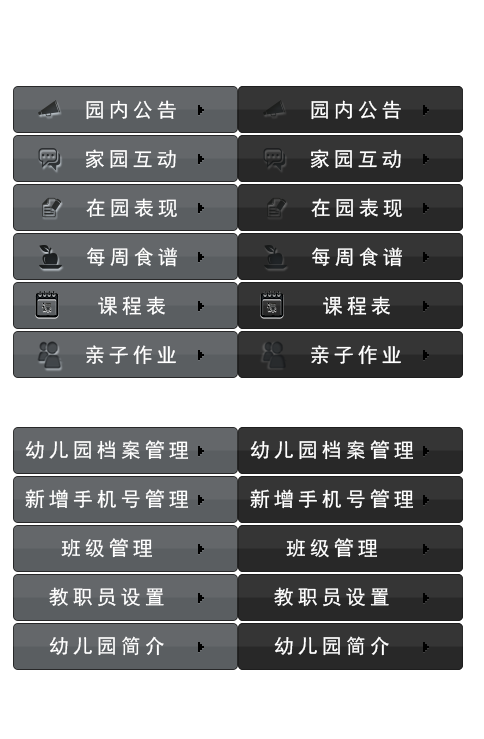
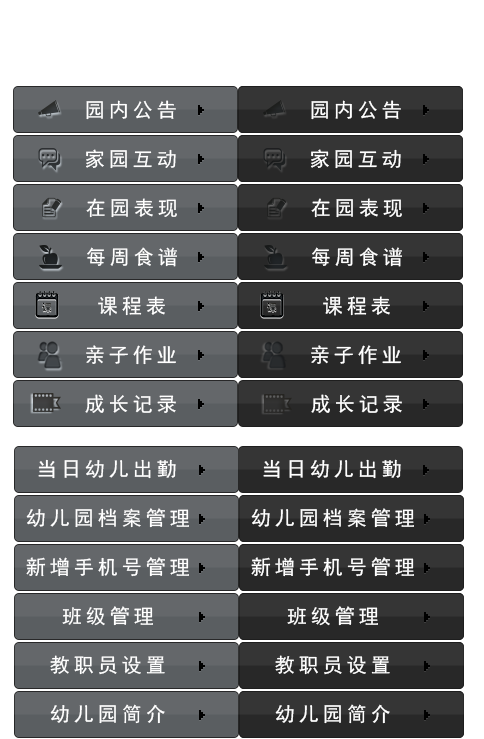
add buttons background, reveal it to teachers

Changed region(s): [[0.0, 0.498, 0.9607, 1.0]]

diff --git a/app/assets/stylesheets/left-panel-buttons.css b/app/assets/stylesheets/left-panel-buttons.css
@@ -30,12 +30,6 @@
       }
 
       .btn {
-        &.history,
-        &.dailylog {
-          span {
-            display: inline;
-          }
-        }
         span {
           display: none;
         }
@@ -80,43 +74,55 @@
           .hoverBkImage(-334);
         }
       }
-
-      .placeholder {
-        .bkImage(-380);
+      .history {
+        .bkImage(-382);
+        &:hover {
+          .hoverBkImage(-382);
+        }
       }
 
-      .relationship {
-        .bkImage(-428);
+      .placeholder {
+        .bkImage(0);
+      }
+
+      .dailylog {
+        .bkImage(-447);
         &:hover {
-          .hoverBkImage(-428);
+          .hoverBkImage(-447);
+        }
+      }
+      .relationship {
+        .bkImage(-496);
+        &:hover {
+          .hoverBkImage(-496);
         }
       }
 
       .member {
-        .bkImage(-478);
+        .bkImage(-545);
         &:hover {
-          .hoverBkImage(-478);
+          .hoverBkImage(-545);
         }
       }
 
       .classes {
-        .bkImage(-527);
+        .bkImage(-594);
         &:hover {
-          .hoverBkImage(-527);
+          .hoverBkImage(-594);
         }
       }
 
       .employee {
-        .bkImage(-576);
+        .bkImage(-643);
         &:hover {
-          .hoverBkImage(-576);
+          .hoverBkImage(-643);
         }
       }
 
       .intro {
-        .bkImage(-626);
+        .bkImage(-692);
         &:hover {
-          .hoverBkImage(-626);
+          .hoverBkImage(-692);
         }
       }
     }
@@ -138,20 +144,27 @@
     .active .assignment {
       .hoverBkImage(-334);
     }
+    .active .history {
+      .hoverBkImage(-382);
+    }
+
+    .active .dailylog {
+      .hoverBkImage(-447);
+    }
     .active .relationship {
-      .hoverBkImage(-428);
+      .hoverBkImage(-496);
     }
     .active .member {
-      .hoverBkImage(-478);
+      .hoverBkImage(-545);
     }
     .active .classes {
-      .hoverBkImage(-527);
+      .hoverBkImage(-594);
     }
     .active .employee {
-      .hoverBkImage(-576);
+      .hoverBkImage(-643);
     }
     .active .intro {
-      .hoverBkImage(-626);
+      .hoverBkImage(-692);
     }
   }
 

diff --git a/app/assets/stylesheets/left-panel-buttons.less b/app/assets/stylesheets/left-panel-buttons.less
@@ -30,12 +30,6 @@
       }
 
       .btn {
-        &.history,
-        &.dailylog {
-          span {
-            display: inline;
-          }
-        }
         span {
           display: none;
         }
@@ -80,43 +74,55 @@
           .hoverBkImage(-334);
         }
       }
-
-      .placeholder {
-        .bkImage(-380);
+      .history {
+        .bkImage(-382);
+        &:hover {
+          .hoverBkImage(-382);
+        }
       }
 
-      .relationship {
-        .bkImage(-428);
+      .placeholder {
+        .bkImage(0);
+      }
+
+      .dailylog {
+        .bkImage(-447);
         &:hover {
-          .hoverBkImage(-428);
+          .hoverBkImage(-447);
+        }
+      }
+      .relationship {
+        .bkImage(-496);
+        &:hover {
+          .hoverBkImage(-496);
         }
       }
 
       .member {
-        .bkImage(-478);
+        .bkImage(-545);
         &:hover {
-          .hoverBkImage(-478);
+          .hoverBkImage(-545);
         }
       }
 
       .classes {
-        .bkImage(-527);
+        .bkImage(-594);
         &:hover {
-          .hoverBkImage(-527);
+          .hoverBkImage(-594);
         }
       }
 
       .employee {
-        .bkImage(-576);
+        .bkImage(-643);
         &:hover {
-          .hoverBkImage(-576);
+          .hoverBkImage(-643);
         }
       }
 
       .intro {
-        .bkImage(-626);
+        .bkImage(-692);
         &:hover {
-          .hoverBkImage(-626);
+          .hoverBkImage(-692);
         }
       }
     }
@@ -138,20 +144,27 @@
     .active .assignment {
       .hoverBkImage(-334);
     }
+    .active .history {
+      .hoverBkImage(-382);
+    }
+
+    .active .dailylog {
+      .hoverBkImage(-447);
+    }
     .active .relationship {
-      .hoverBkImage(-428);
+      .hoverBkImage(-496);
     }
     .active .member {
-      .hoverBkImage(-478);
+      .hoverBkImage(-545);
     }
     .active .classes {
-      .hoverBkImage(-527);
+      .hoverBkImage(-594);
     }
     .active .employee {
-      .hoverBkImage(-576);
+      .hoverBkImage(-643);
     }
     .active .intro {
-      .hoverBkImage(-626);
+      .hoverBkImage(-692);
     }
   }
 

diff --git a/public/templates/admin/kindergarten_manage.html b/public/templates/admin/kindergarten_manage.html
@@ -71,7 +71,7 @@
         </a>
       </li>
 
-      <li class="action" ng-class="{active : isSelected('history')}" ng-show="operatorOnly(adminUser)">
+      <li class="action" ng-class="{active : isSelected('history')}">
         <a class="btn history" ng-click="goHistory()">
           <span>成长历史</span>
         </a>
@@ -83,7 +83,7 @@
         </a>
       </li>
 
-      <li class="action" ng-class="{active : isSelected('dailylog')}" ng-show="operatorOnly(adminUser)">
+      <li class="action" ng-class="{active : isSelected('dailylog')}">
         <a ng-click="goDailyLog()" class="btn dailylog">
           <span>当日幼儿出勤</span>
         </a>
